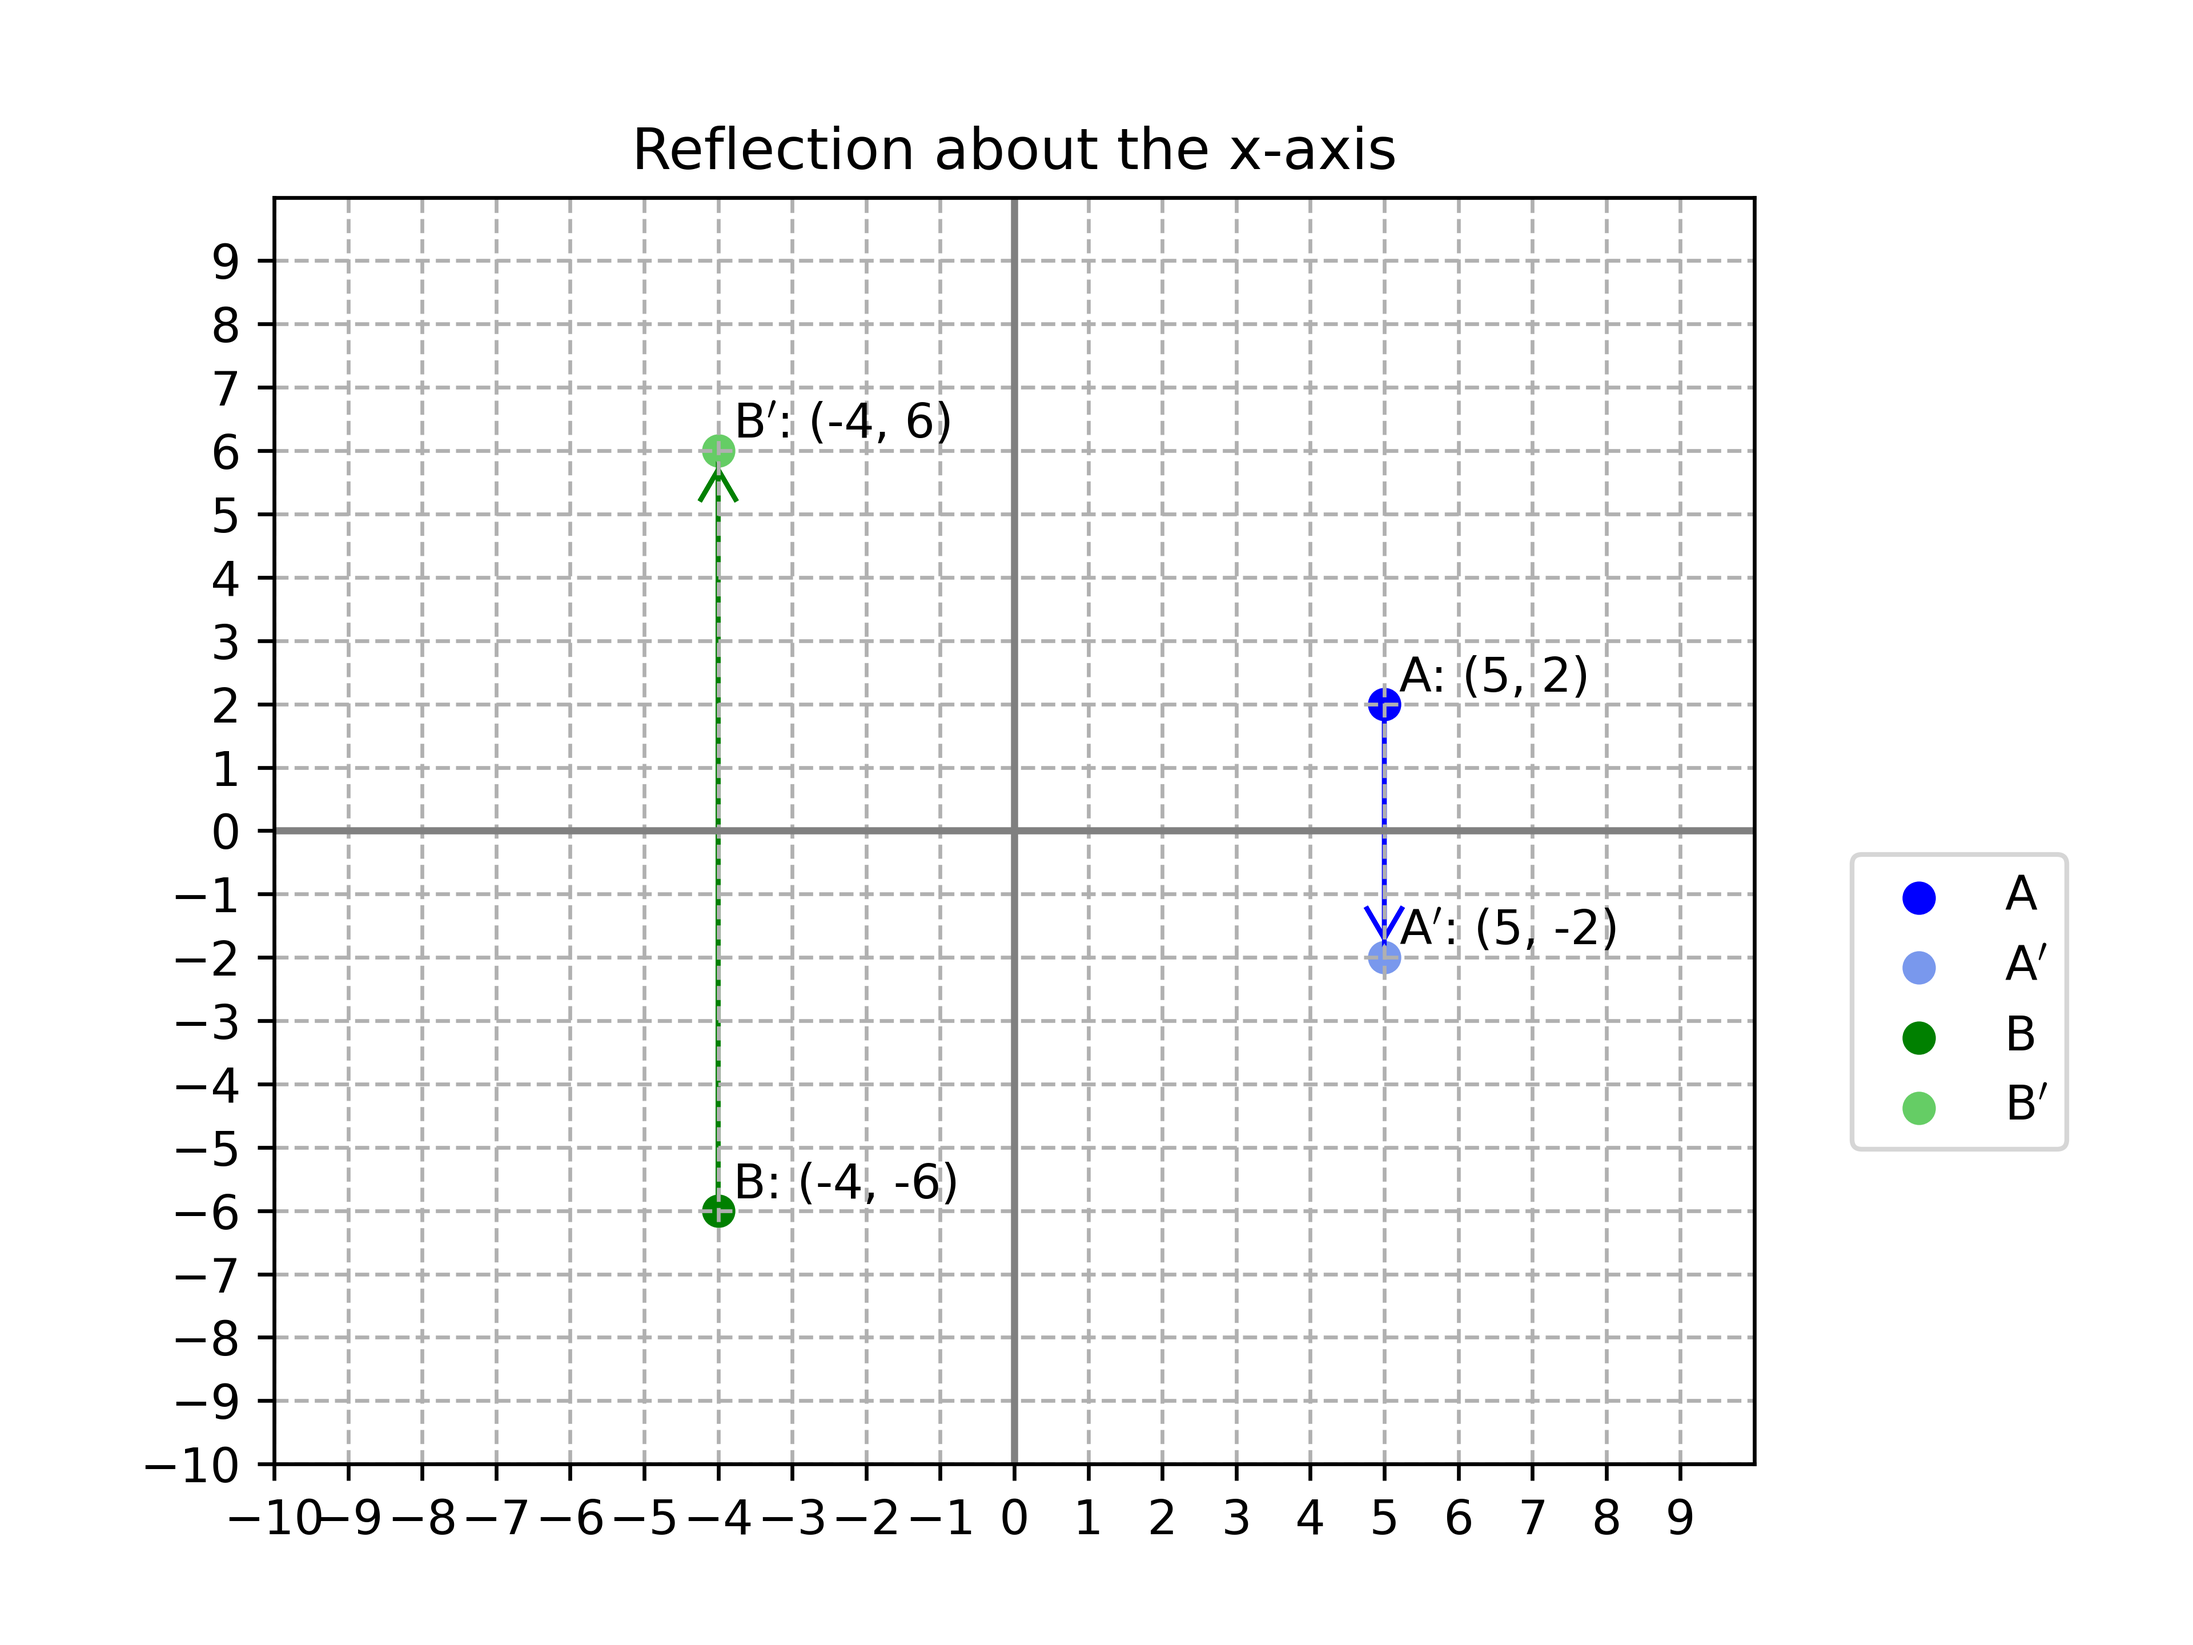
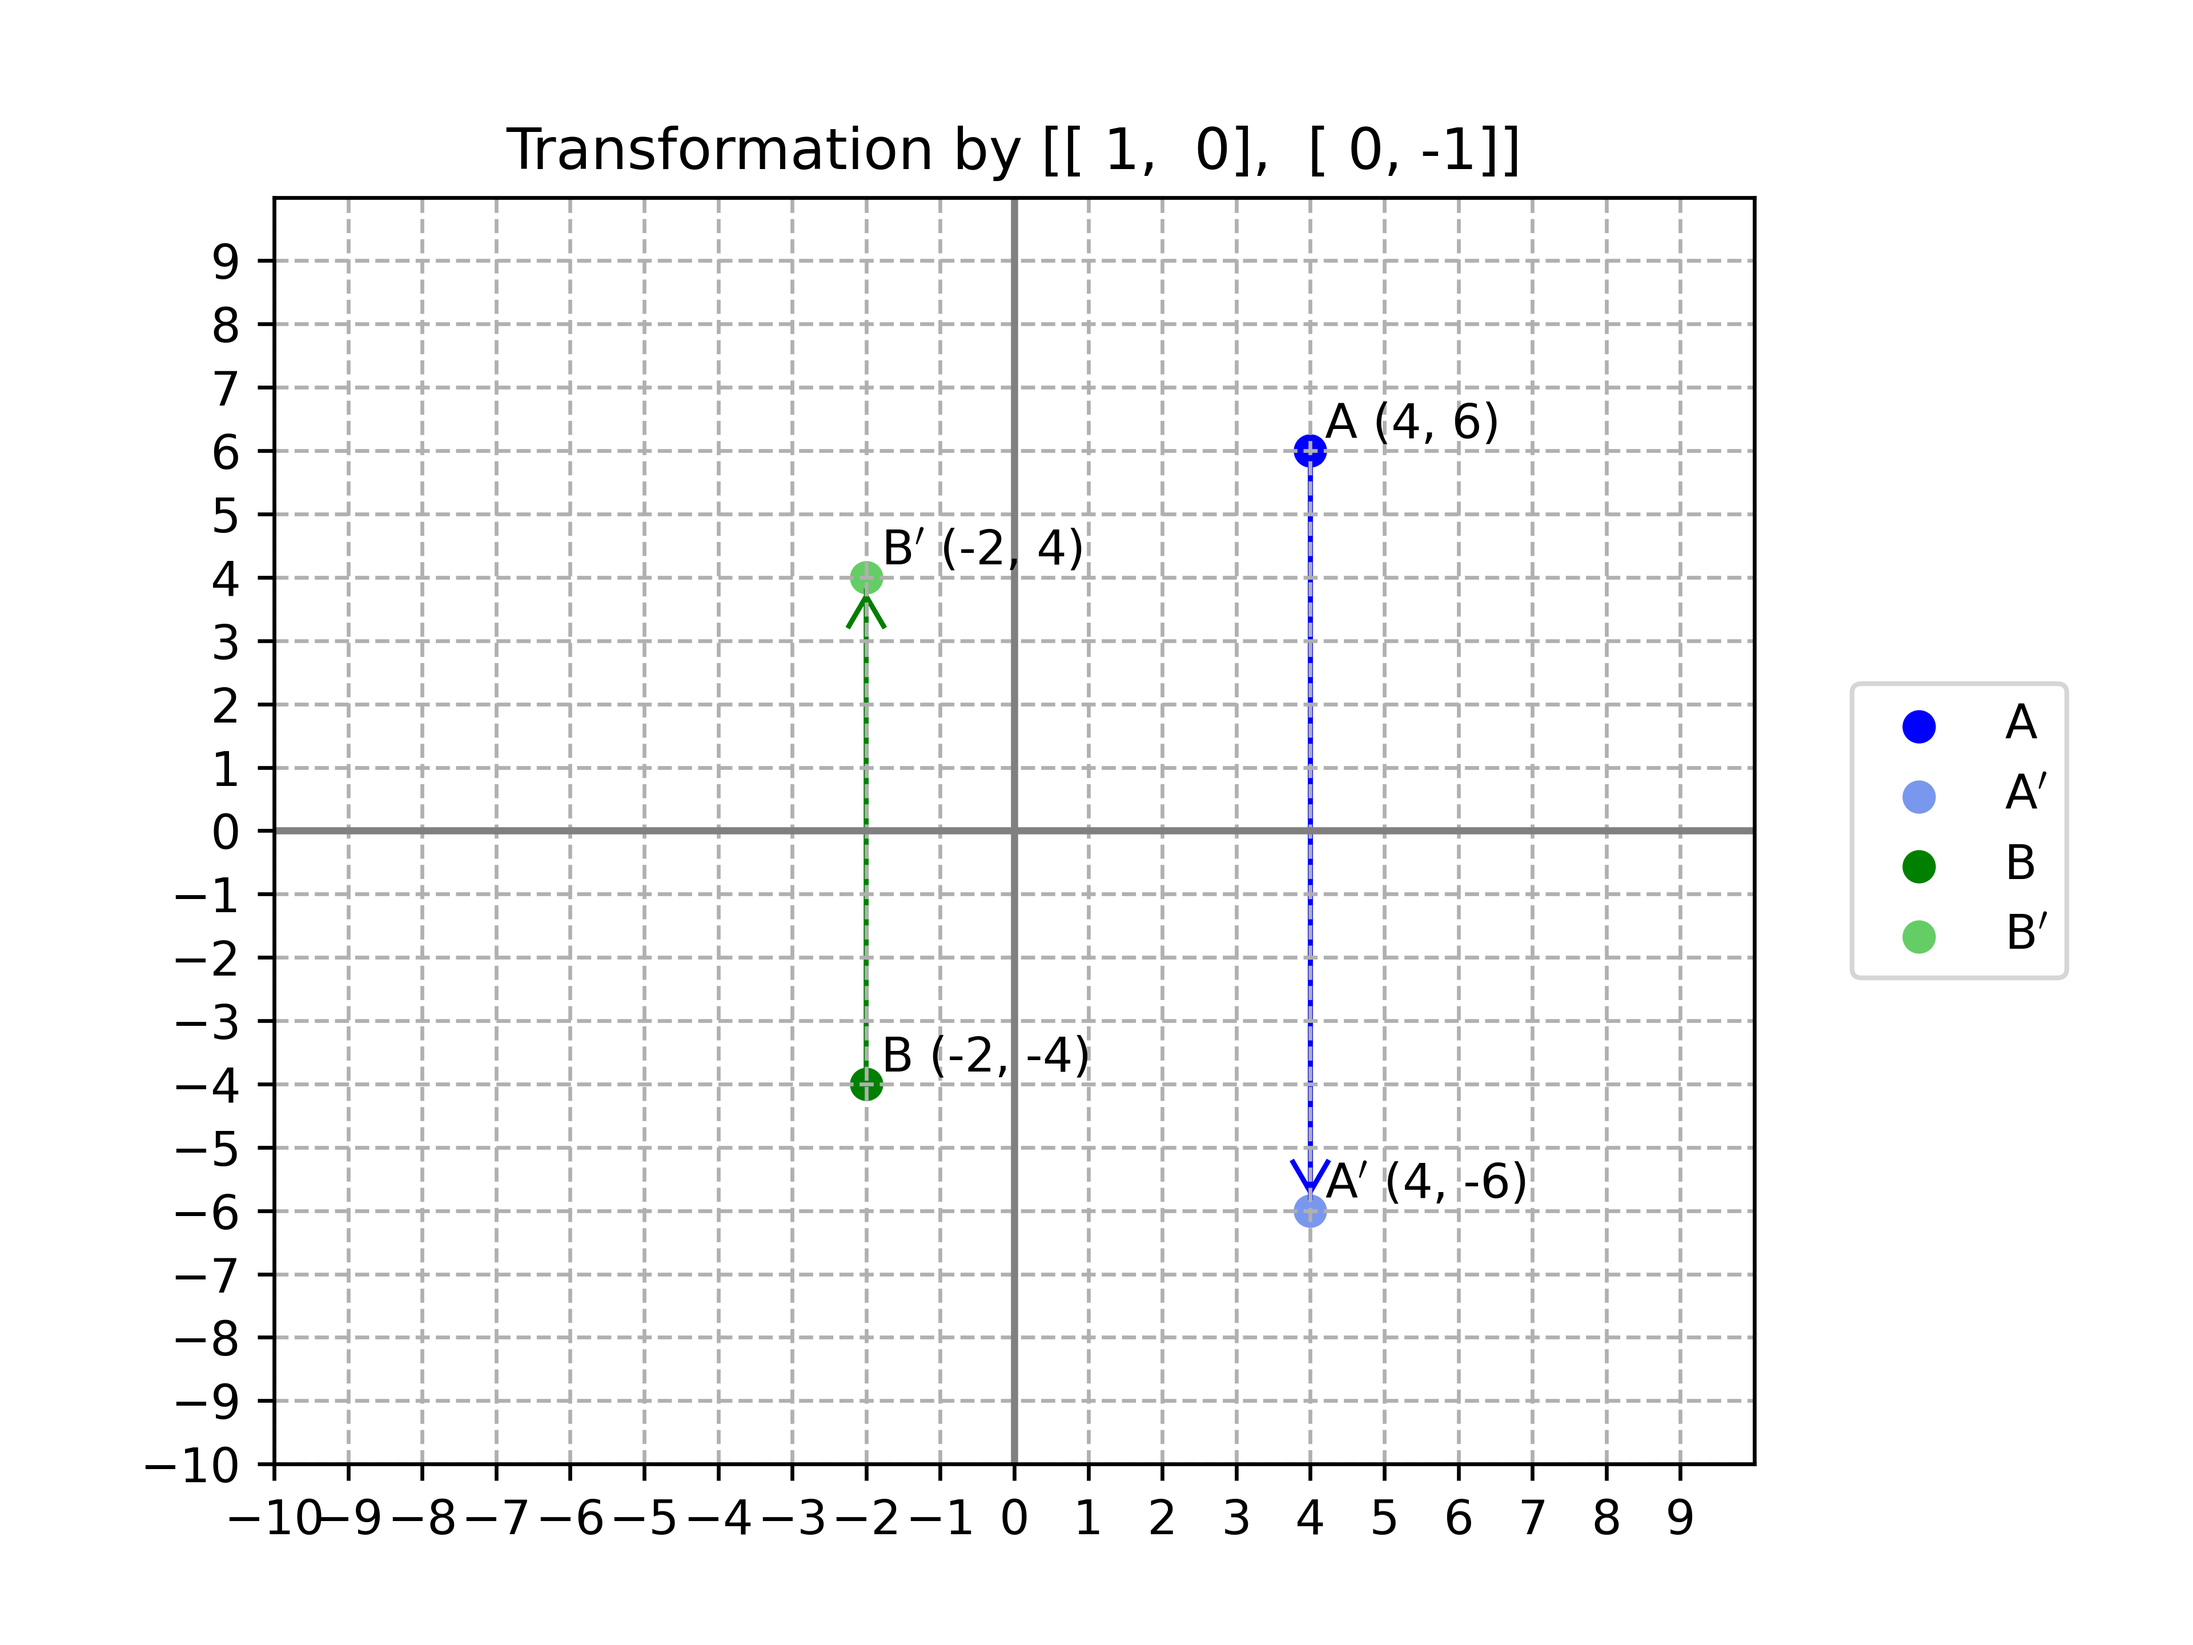
new

diff --git a/docs/maths_python/files/matrix_transformation.py b/docs/maths_python/files/matrix_transformation.py
@@ -1,0 +1,119 @@
+import numpy as np
+import matplotlib.pyplot as plt
+from matplotlib.ticker import MaxNLocator
+from matplotlib.colors import to_rgba, LinearSegmentedColormap
+from pathlib import Path
+
+currfile_dir = Path(__file__).parent
+
+
+def plot_transformation(points, point_names, matrix_reflection, filename):
+    """
+    Plots the reflection of a list of points about the x-axis or y-axis.
+
+    Args:
+        points (List[np.ndarray]): A list of points, where each point is represented as a numpy array of shape (2,).
+        point_names (List[str]): A list of point names, where each name corresponds to a point in the `points` list.
+        matrix_reflection (np.ndarray): The reflection matrix to use for reflecting the points. Must be a numpy array of shape (2, 2).
+        filename (str): The filename to save the plot as.
+
+    Returns:
+        None
+    """
+    colors = ["blue", "green", "brown", "purple", "orange"]
+    light_colors = ["lightblue", "lightgreen", "burlywood", "thistle", "moccasin"]
+    intermediate_colors = [
+        LinearSegmentedColormap.from_list(
+            "", [to_rgba(colors[i]), to_rgba(light_colors[i])]
+        )(0.7)
+        for i in range(len(colors))
+    ]
+    ax = plt.figure().gca()
+    ax.xaxis.set_major_locator(MaxNLocator(integer=True))
+    ax.yaxis.set_major_locator(MaxNLocator(integer=True))
+    ax.set_xticks(np.arange(-10, 10, 1))
+    ax.set_yticks(np.arange(-10, 10, 1))
+    for i, (point, point_name) in enumerate(zip(points, point_names)):
+        transformed_point = matrix_reflection.dot(point)
+        plt.annotate(
+            f"{point_name} ({point[0]}, {point[1]})",
+            (point[0] + 0.2, point[1] + 0.2),
+        )
+        plt.text(
+            transformed_point[0] + 0.2,
+            transformed_point[1] + 0.2,
+            f"{point_name}$^\prime$ ({transformed_point[0]}, {transformed_point[1]})",
+        )
+        plt.scatter(
+            point[0], point[1], color=colors[i % len(colors)], label=f"{point_name}"
+        )
+        plt.scatter(
+            transformed_point[0],
+            transformed_point[1],
+            color=intermediate_colors[i % len(intermediate_colors)],
+            label=f"{point_name}$^\prime$",
+        )     
+        # Shorten the arrows
+        dx = transformed_point[0] - point[0]
+        dy = transformed_point[1] - point[1]
+        # dx -= np.sign(dx) * 0.8
+        # dy -= np.sign(dy) * 0.8
+        # Reduce the line length by 0.8
+        if dx == 0:
+            dy -= np.sign(dy) * 0.8
+        elif dy == 0:
+            dx -= np.sign(dx) * 0.8
+        else:   
+            gradient = abs(dy / dx)
+            dx -= np.sign(dx) * 0.8 / np.sqrt(1 + gradient**2)
+            dy -= np.sign(dy) * 0.8 * gradient / np.sqrt(1 + gradient**2)
+
+
+        plt.arrow(
+            point[0],point[1],dx,dy,head_width=0.5,head_length=0.5,overhang=1,
+            color=colors[i % len(colors)],
+        )
+    plt.xlim(-10, 10)
+    plt.ylim(-10, 10)
+    plt.legend(bbox_to_anchor=(1.05, 0.5), loc="upper left")
+    plt.legend(loc='center left', bbox_to_anchor=(1.05, 0.5))
+    plt.subplots_adjust(right=0.8)
+
+    title_str = f"Transformation by {np.array2string(matrix_reflection, separator=', ', prefix='[', suffix=']', max_line_width=np.inf)}".replace("\n", "")
+    plt.title(title_str)
+    # Change grid lines to be dotted except for the grid lines going through the origin
+    ax.grid(True, which="both", linestyle="--")
+    # Make the axis lines grey instead of black
+    ax.axhline(y=0, color="grey")
+    ax.axvline(x=0, color="grey")
+    save_plot(plt, filename)
+    # plt.show()
+
+
+def save_plot(plot, filename):
+    "    Saves the given plot to a file with the given filename within the curr directory"
+    filepath = currfile_dir / filename
+    plot.savefig(filepath, dpi=600)
+
+
+points = [np.array([4, 6]), np.array([-2, -4])]  # , np.array([-2, -2]), np.array([-3, 2])
+point_names = ["A", "B"]  # , "C", "D"
+# Define reflection matrices for reflecting about x-axis and y-axis
+matrix_reflection_x = np.array([[1, 0], [0, -1]])
+matrix_reflection_y = np.array([[-1, 0], [0, 1]])
+matrix_reflection_yisx = np.array([[0, 1], [1, 0]])
+matrix_reflection_yisnegx = np.array([[0, -1], [-1, 0]])
+matrix_rotation_90clock = np.array([[0, 1], [-1, 0]])
+matrix_rotation_180clock = np.array([[-1, 0], [0, -1]])
+matrix_rotation_270clock = np.array([[0, -1], [1, 0]])
+matrix_dilation_05 = np.array([[0.5, 0], [0, 0.5]])
+matrix_dilation_15 = np.array([[1.5, 0], [0, 1.5]])
+plot_transformation(points, point_names, matrix_reflection_x,"matrix_reflection_x.png")
+plot_transformation(points, point_names, matrix_reflection_y,"matrix_reflection_y.png")
+plot_transformation(points, point_names, matrix_reflection_yisx,"matrix_reflection_y=x.png")
+plot_transformation(points, point_names, matrix_reflection_yisnegx,"matrix_reflection_y=-x.png")
+plot_transformation(points, point_names, matrix_rotation_90clock,"matrix_rotation_90clock.png")
+plot_transformation(points, point_names, matrix_rotation_180clock,"matrix_rotation_180clock.png")
+plot_transformation(points, point_names, matrix_rotation_270clock,"matrix_rotation_270clock.png")
+plot_transformation(points, point_names, matrix_dilation_05,"matrix_dilation_05.png")
+plot_transformation(points, point_names, matrix_dilation_15,"matrix_dilation_15.png")

diff --git a/docs/maths_python/matrix_transformations.rst b/docs/maths_python/matrix_transformations.rst
@@ -40,10 +40,20 @@ Translation of multiple points
 
 ----
 
+Transformations
+--------------------
+
+| Python code for a matrix transformation:
+
+.. literalinclude:: files/matrix_transformation.py
+    :linenos:
+
+----
+
 Reflections
 ---------------
 
-| The  reflection of multiple points in an axis is shown below.
+| Examples of the reflection of multiple points is shown below.
 
 .. image:: images/matrix_reflection_x.png
     :width: 600
@@ -53,16 +63,47 @@ Reflections
     :width: 600
     :align: center
 
-| Python code for a translation:
+.. image:: images/matrix_reflection_y=x.png
+    :width: 600
+    :align: center
 
-.. literalinclude:: files/matrix_reflection_y.png
-    :linenos:
+.. image:: images/matrix_reflection_y=-x.png
+    :width: 600
+    :align: center
+
+
+----
+
+Rotations
+-------------------
+
+| Examples of the rotation of multiple points is shown below.
+
+.. image:: images/matrix_rotation_90clock.png
+    :width: 600
+    :align: center
+
+.. image:: images/matrix_rotation_180clock.png
+    :width: 600
+    :align: center
+
+.. image:: images/matrix_rotation_270clock.png
+    :width: 600
+    :align: center
 
 ----
 
 Dilation
 -------------
 
+| An example of dilation of multiple points is shown below.
 
-Rotations
--------------------
+.. image:: images/matrix_dilation_05.png
+    :width: 600
+    :align: center
+
+.. image:: images/matrix_dilation_15.png
+    :width: 600
+    :align: center
+
+
